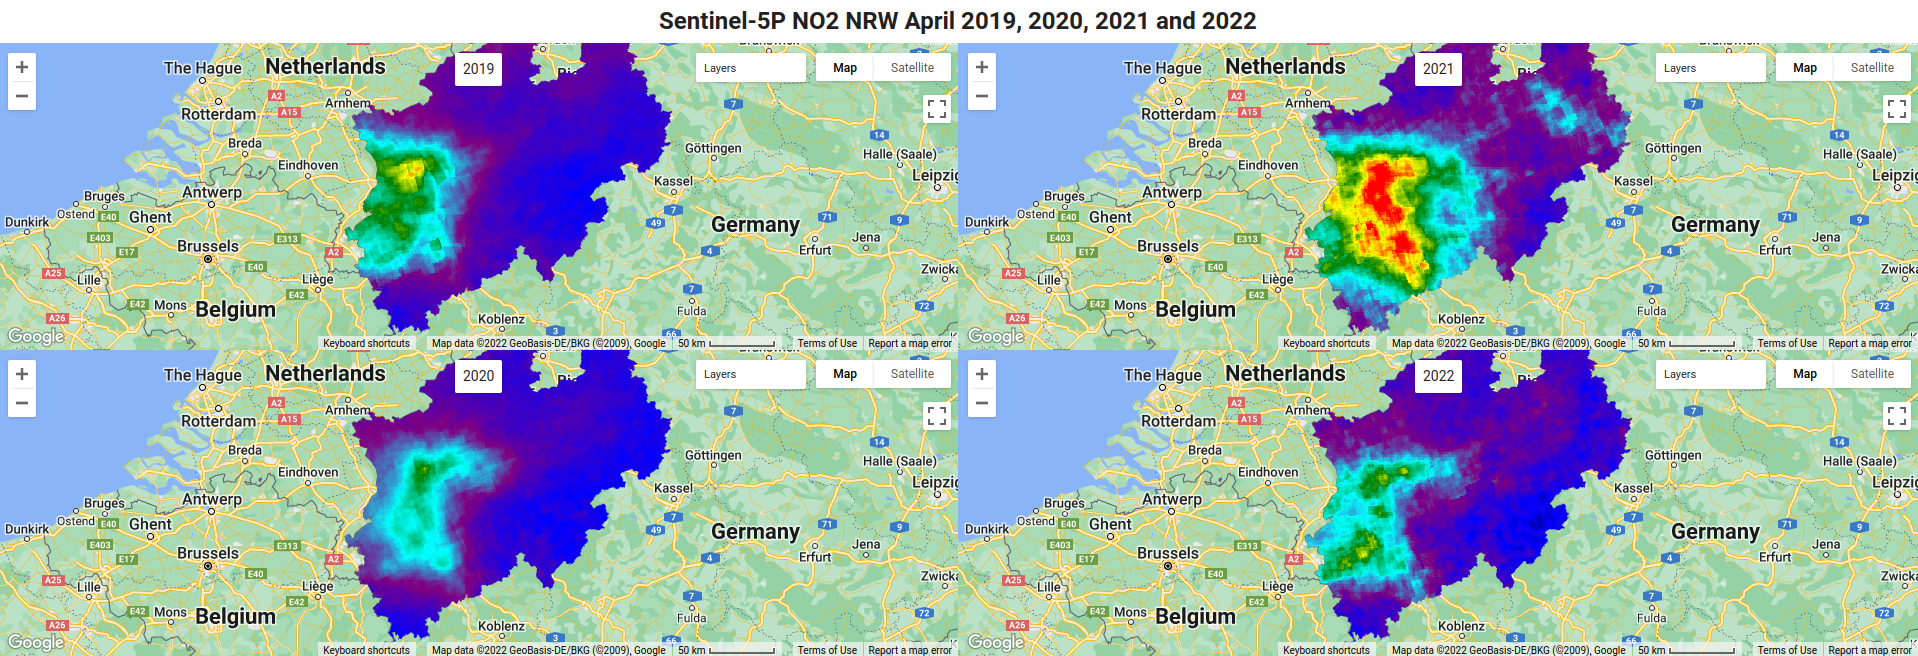
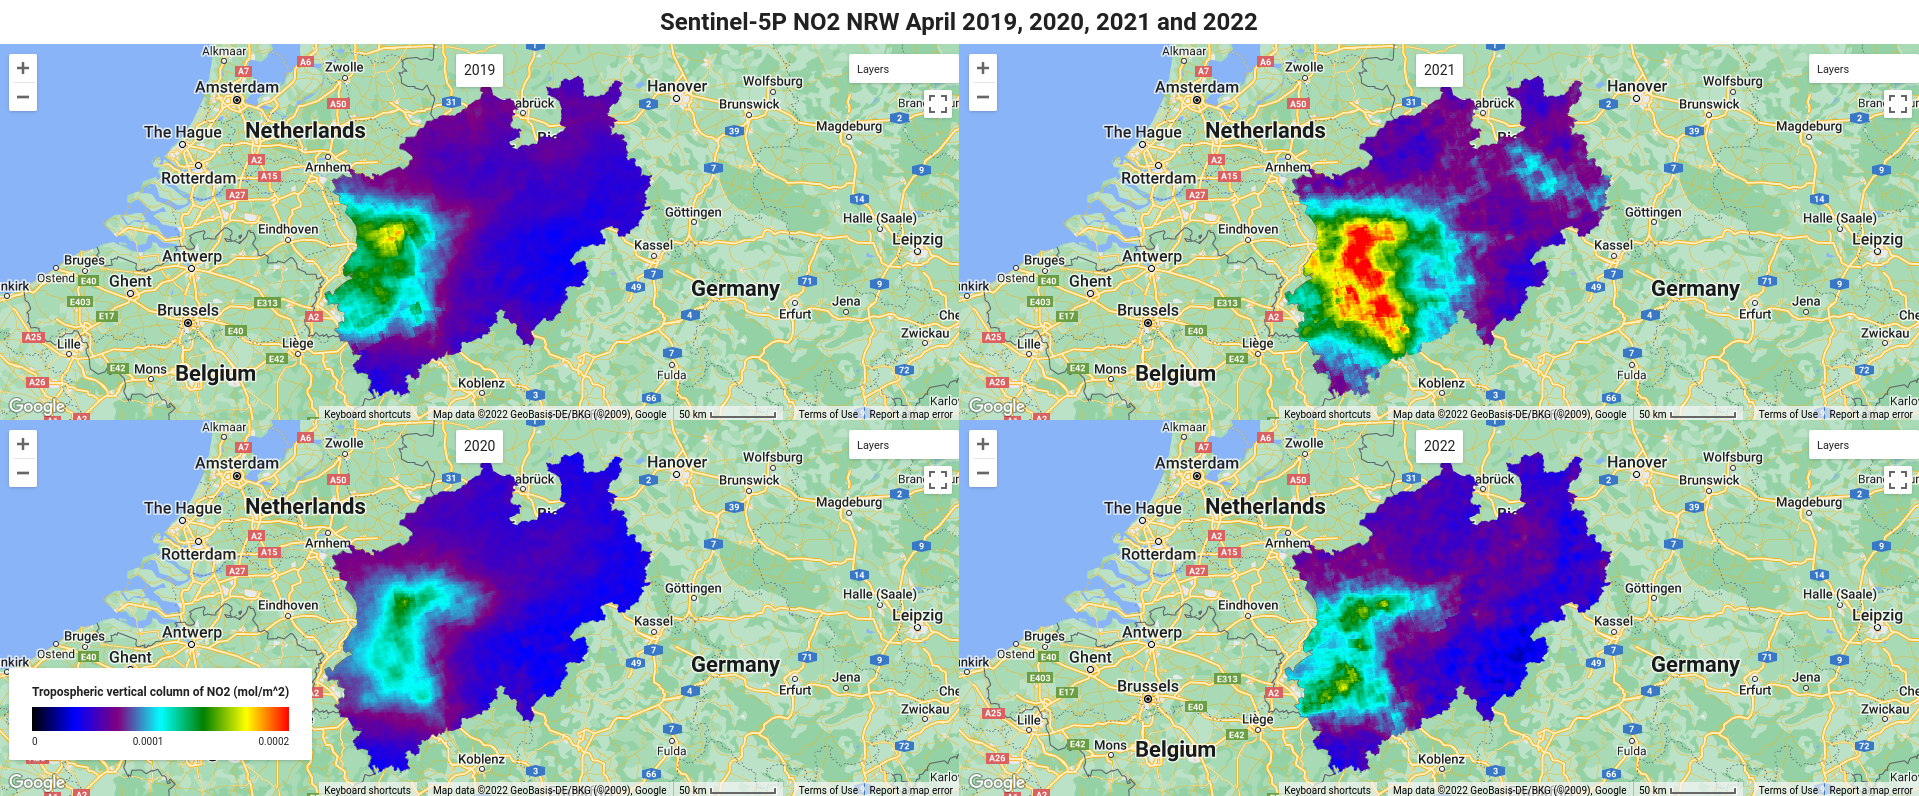
add legend

diff --git a/ee_sentinel_5p_no2_nrw.js b/ee_sentinel_5p_no2_nrw.js
@@ -1,76 +1,122 @@
-// load NRW polygon
-var nrw = ee.FeatureCollection('projects/ee-alexvmt/assets/nrw');
+// load polygon of region of interest
+var roi = ee.FeatureCollection('projects/ee-alexvmt/assets/nrw');
 
 // load and prepare Sentinel-5P NO2 data for 2019, 2020, 2021 and 2022
 var no2_2019 = ee.ImageCollection('COPERNICUS/S5P/OFFL/L3_NO2')
-  .select('tropospheric_NO2_column_number_density')
-  .filterDate('2019-04-01', '2019-04-30')
-  .mean()
-  .clip(nrw);
+	.select('tropospheric_NO2_column_number_density')
+	.filterDate('2019-04-01', '2019-04-30')
+	.mean()
+	.clip(roi);
 
 var no2_2020 = ee.ImageCollection('COPERNICUS/S5P/OFFL/L3_NO2')
-  .select('tropospheric_NO2_column_number_density')
-  .filterDate('2020-04-01', '2020-04-30')
-  .mean()
-  .clip(nrw);
+	.select('tropospheric_NO2_column_number_density')
+	.filterDate('2020-04-01', '2020-04-30')
+	.mean()
+	.clip(roi);
 
 var no2_2021 = ee.ImageCollection('COPERNICUS/S5P/OFFL/L3_NO2')
-  .select('tropospheric_NO2_column_number_density')
-  .filterDate('2021-04-01', '2021-04-30')
-  .mean()
-  .clip(nrw);
+	.select('tropospheric_NO2_column_number_density')
+	.filterDate('2021-04-01', '2021-04-30')
+	.mean()
+	.clip(roi);
 
 var no2_2022 = ee.ImageCollection('COPERNICUS/S5P/OFFL/L3_NO2')
-  .select('tropospheric_NO2_column_number_density')
-  .filterDate('2022-04-01', '2022-04-30')
-  .mean()
-  .clip(nrw);
+	.select('tropospheric_NO2_column_number_density')
+	.filterDate('2022-04-01', '2022-04-30')
+	.mean()
+	.clip(roi);
 
 // set visualization parameters
 var visualization = {
-  min: 0,
-  max: 0.0002,
-  palette: ['black', 'blue', 'purple', 'cyan', 'green', 'yellow', 'red']
-};
+	min: 0,
+	max: 0.0002,
+	palette: ['black', 'blue', 'purple', 'cyan', 'green', 'yellow', 'red']
+  };
+
+// create color bar thumbnail image for legend
+function makeColorBarParams(palette) {
+	return {
+		bbox: [0, 0, 1, 0.1],
+		dimensions: '100x10',
+		format: 'png',
+		min: 0,
+		max: 1,
+		palette: palette
+		};
+	};
+
+// create color bar for legend
+var colorBar = ui.Thumbnail({
+	image: ee.Image.pixelLonLat().select(0),
+	params: makeColorBarParams(visualization.palette),
+	style: {stretch: 'horizontal', margin: '0px 8px', maxHeight: '24px'}
+	});
+
+// create legend panel
+var legendLabels = ui.Panel({
+	widgets: [
+		ui.Label(visualization.min, {margin: '4px 8px', fontSize: '10px'}),
+		ui.Label(
+			((visualization.max - visualization.min) / 2 + visualization.min),
+			{margin: '4px 8px', fontSize: '10px', textAlign: 'center', stretch: 'horizontal'}),
+		ui.Label(visualization.max, {margin: '4px 8px', fontSize: '10px'})
+	],
+	layout: ui.Panel.Layout.flow('horizontal')
+	});
+
+// create legend title
+var legendTitle = ui.Label({
+	value: 'Tropospheric vertical column of NO2 (mol/m^2)',
+	style: {fontWeight: 'bold', fontSize: '12px'}
+	});
+
+// assemble legend
+var legendPanel = ui.Panel({style: {position: 'bottom-left', padding: '8px 15px'}});
+legendPanel.add(legendTitle);
+legendPanel.add(colorBar);
+legendPanel.add(legendLabels);
 
 // create linked maps
 var years = {
-  '2019': no2_2019,
-  '2020': no2_2020,
-  '2021': no2_2021,
-  '2022': no2_2022
-}
+	'2019': no2_2019,
+	'2020': no2_2020,
+	'2021': no2_2021,
+	'2022': no2_2022
+	};
 
 var maps = [];
 
 for (var year in years) {
-  var map = ui.Map()
-  map.addLayer(years[year], visualization, 'S5P N02')
-  map.add(ui.Label(year))
-  maps.push(map);
-}
+	var map = ui.Map().setControlVisibility({mapTypeControl: false})
+	map.addLayer(years[year], visualization, 'S5P N02')
+	map.add(ui.Label(year))
+	maps.push(map);
+	};
 
 var linker = ui.Map.Linker(maps);
 
 // create map grid
 var mapGrid = ui.Panel(
     [
-      ui.Panel([maps[0], maps[1]], null, {stretch: 'both'}),
-      ui.Panel([maps[2], maps[3]], null, {stretch: 'both'})
+		ui.Panel([maps[0], maps[1]], null, {stretch: 'both'}),
+		ui.Panel([maps[2], maps[3]], null, {stretch: 'both'})
     ],
     ui.Panel.Layout.Flow('horizontal'), {stretch: 'both'});
 
-// set map center to coordinates of NRW's center
-// https://www.dortmund.de/de/leben_in_dortmund/stadtbezirke/stbzportal_aplerbeck/stadtbezirksmarketing_apl/mittelpunkt_nrw/index.html
-maps[0].setCenter(7.3316, 51.2844, 7);
+// set map center to roi center
+var center = roi.geometry().centroid();
+maps[0].centerObject(center, 7);
+
+// add legend to bottom left map
+maps[1].add(legendPanel);
 
 // add title
 var title = ui.Label('Sentinel-5P NO2 NRW April 2019, 2020, 2021 and 2022', {
-  stretch: 'horizontal',
-  textAlign: 'center',
-  fontWeight: 'bold',
-  fontSize: '24px'
-});
+	stretch: 'horizontal',
+	textAlign: 'center',
+	fontWeight: 'bold',
+	fontSize: '24px'
+	});
 
 ui.root.widgets().reset([title, mapGrid]);
 ui.root.setLayout(ui.Panel.Layout.Flow('vertical'));
